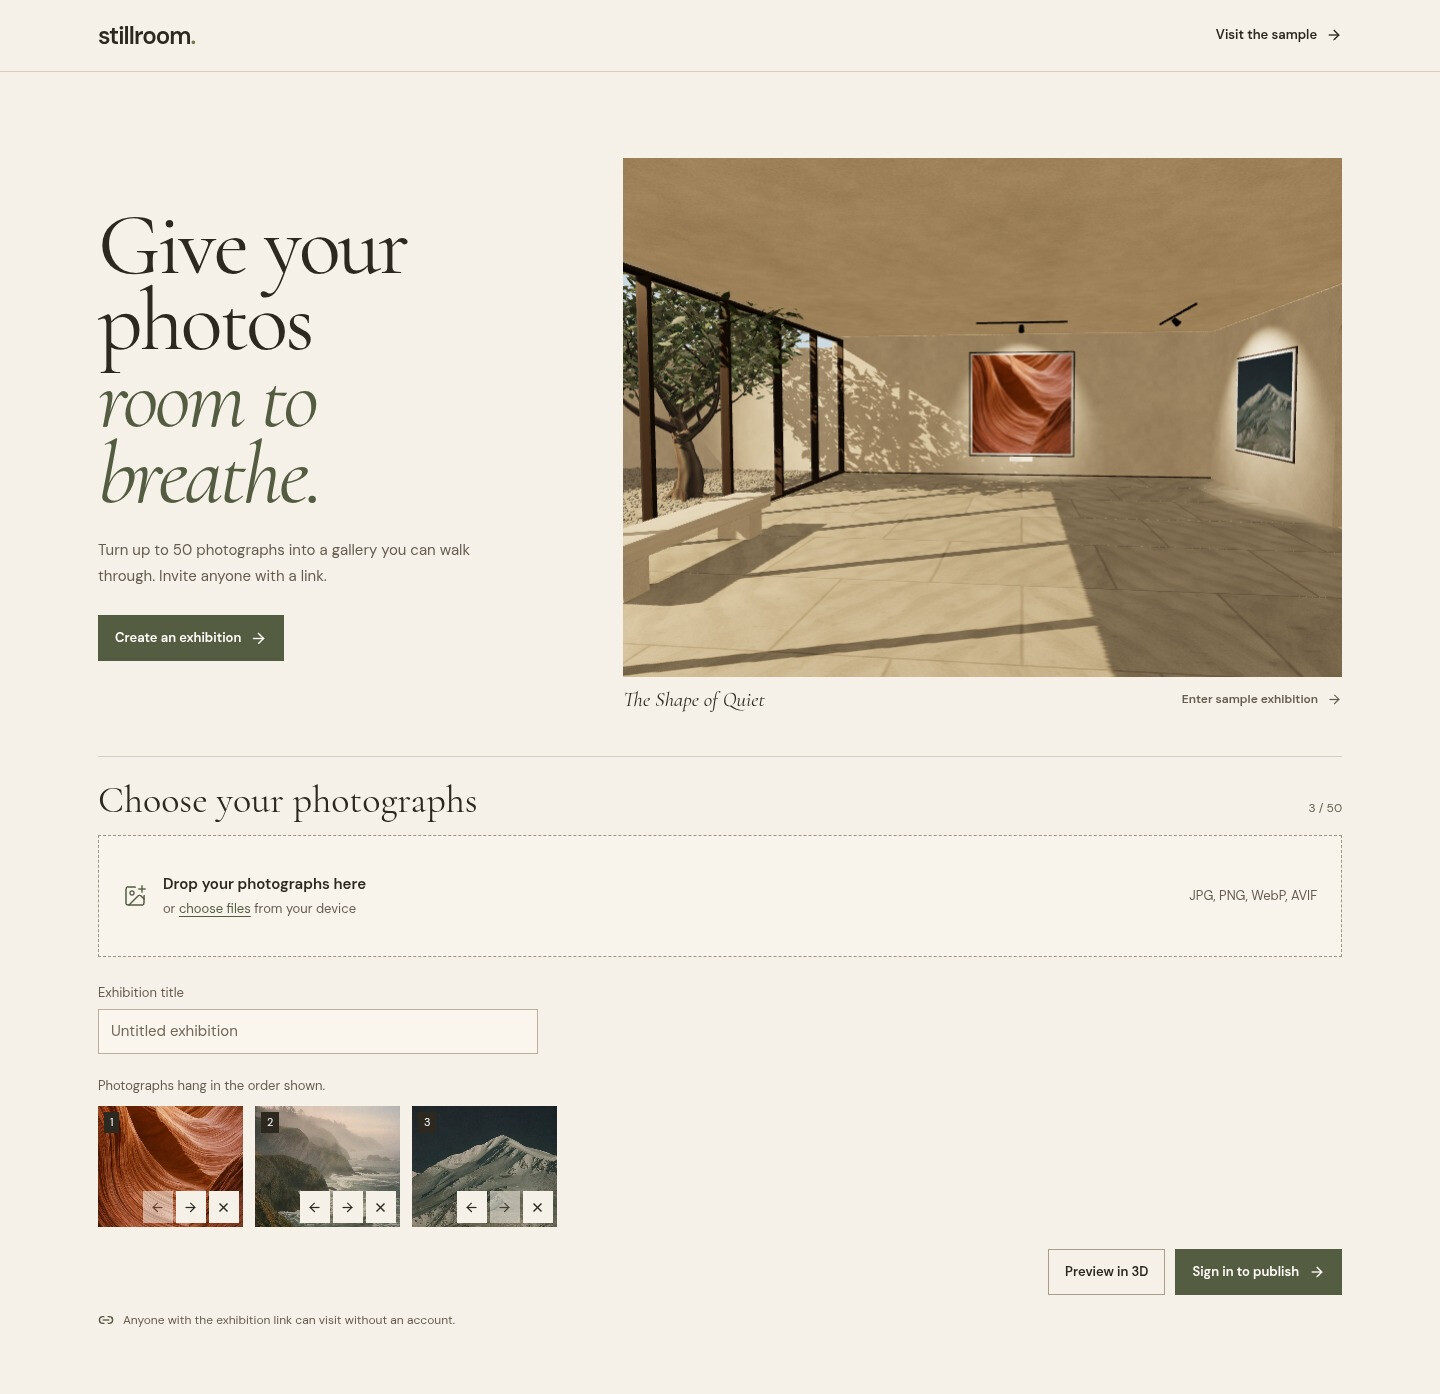
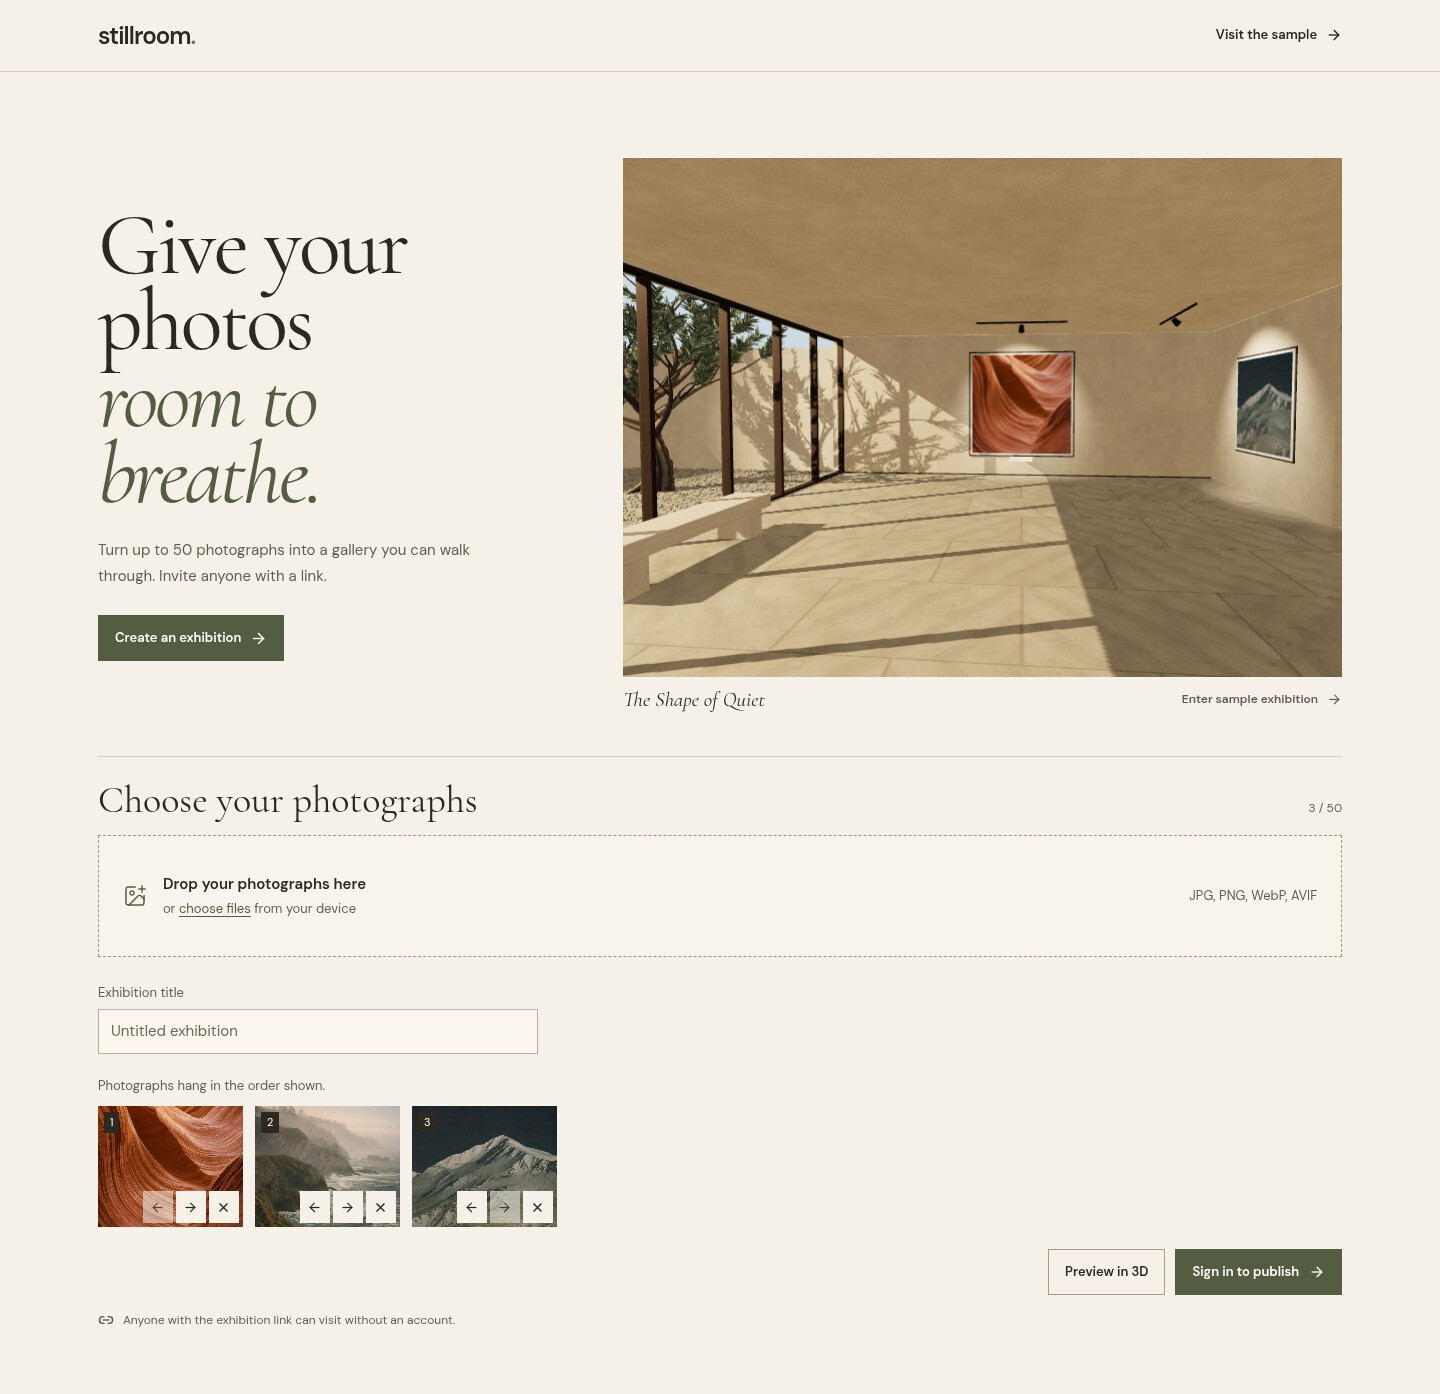
Refine olive foliage and keep the tree clear of the gallery

Changed region(s): [[0.4062, 0.1851, 0.7188, 0.3702]]

diff --git a/app/lib/olive-tree.ts b/app/lib/olive-tree.ts
@@ -1,6 +1,37 @@
 import * as THREE from "three";
 import { mergeGeometries } from "three/addons/utils/BufferGeometryUtils.js";
 
+function makeBarkTexture() {
+  const size = 128;
+  const pixels = new Uint8Array(size * size * 4);
+  const turn = Math.PI * 2;
+  for (let y = 0; y < size; y++) {
+    const v = y / size * turn;
+    const twist = 0.15 * Math.sin(2 * v) + 0.075 * Math.sin(5 * v);
+    for (let x = 0; x < size; x++) {
+      const u = x / size * turn + twist;
+      const crevice = Math.pow(0.5 + 0.5 * Math.cos(13 * u + 0.72 * Math.sin(3 * v + 5 * u)), 8);
+      const grain = Math.sin(31 * u + Math.sin(v * 4 - u * 9));
+      const scales = Math.sin(v * 7 + u * 17) * Math.sin(v * 13 - u * 8);
+      const fiber = Math.imul(x + 17, 1637133) ^ Math.imul(y + 61, 1013904223);
+      const speckle = ((fiber >>> 8) & 255) / 255 - 0.5;
+      const value = Math.min(255, Math.round(225 - 84 * crevice + 14 * grain + 13 * scales + 18 * speckle));
+      const pixel = (y * size + x) * 4;
+      pixels[pixel] = value;
+      pixels[pixel + 1] = value;
+      pixels[pixel + 2] = value;
+      pixels[pixel + 3] = 255;
+    }
+  }
+  const texture = new THREE.DataTexture(pixels, size, size);
+  texture.wrapS = texture.wrapT = THREE.RepeatWrapping;
+  texture.generateMipmaps = true;
+  texture.magFilter = THREE.LinearFilter;
+  texture.minFilter = THREE.LinearMipmapLinearFilter;
+  texture.needsUpdate = true;
+  return texture;
+}
+
 /** A gnarled olive with tapered bark and folded, lance-shaped leaves. */
 export function createOliveTree(seed = 1) {
   let state = seed >>> 0;
@@ -11,7 +42,7 @@ export function createOliveTree(seed = 1) {
   const tree = new THREE.Group();
   const wood: THREE.BufferGeometry[] = [];
   const sprays: { base: THREE.Vector3; tip: THREE.Vector3 }[] = [];
-  const barkShades = ["#443128", "#766451", "#8a7a64", "#665243", "#544c3e"].map((color) => new THREE.Color(color));
+  const barkShades = ["#39291f", "#755c45", "#9a8062", "#614733", "#514536", "#ad9675"].map((color) => new THREE.Color(color));
   const up = new THREE.Vector3(0, 1, 0);
   const perpendicular = new THREE.Vector3();
   const tangent = new THREE.Vector3();
@@ -21,8 +52,12 @@ export function createOliveTree(seed = 1) {
     const path = new THREE.CatmullRomCurve3(points);
     const positions: number[] = [];
     const colors: number[] = [];
+    const uvs: number[] = [];
     const indices: number[] = [];
-    const flutes = Array.from({ length: sides }, () => 0.78 + random() * 0.36);
+    const ring = sides + 1;
+    const length = path.getLength();
+    const repeats = Math.max(1, Math.round(radius * 10));
+    const flutes = Array.from({ length: sides }, () => 0.70 + random() * 0.54);
     const shades = flutes.map(() => barkShades[Math.floor(random() * barkShades.length)]);
     for (let step = 0; step <= steps; step++) {
       const t = step / steps;
@@ -37,19 +72,37 @@ export function createOliveTree(seed = 1) {
           .applyQuaternion(orientation).add(center);
         positions.push(perpendicular.x, perpendicular.y, perpendicular.z);
         const shade = shades[side];
-        const value = 0.76 + 0.31 * random();
+        const value = 0.70 + 0.43 * random();
         colors.push(shade.r * value, shade.g * value, shade.b * value);
+        uvs.push(repeats * side / sides, t * length * 1.7);
         if (step === steps) continue;
-        const a = step * sides + side;
-        const b = step * sides + (side + 1) % sides;
-        indices.push(a, a + sides, b, b, a + sides, b + sides);
+        const a = step * ring + side;
+        indices.push(a, a + ring, a + 1, a + 1, a + ring, a + ring + 1);
       }
+      // Duplicate the seam vertex so its texture coordinates can wrap.
+      const start = step * ring * 3;
+      positions.push(positions[start], positions[start + 1], positions[start + 2]);
+      colors.push(colors[start], colors[start + 1], colors[start + 2]);
+      uvs.push(repeats, t * length * 1.7);
     }
     const geometry = new THREE.BufferGeometry();
     geometry.setAttribute("position", new THREE.Float32BufferAttribute(positions, 3));
     geometry.setAttribute("color", new THREE.Float32BufferAttribute(colors, 3));
+    geometry.setAttribute("uv", new THREE.Float32BufferAttribute(uvs, 2));
     geometry.setIndex(indices);
     geometry.computeVertexNormals();
+    const normals = geometry.getAttribute("normal");
+    for (let step = 0; step <= steps; step++) {
+      const left = step * ring;
+      const right = left + sides;
+      tangent.set(
+        normals.getX(left) + normals.getX(right),
+        normals.getY(left) + normals.getY(right),
+        normals.getZ(left) + normals.getZ(right),
+      ).normalize();
+      normals.setXYZ(left, tangent.x, tangent.y, tangent.z);
+      normals.setXYZ(right, tangent.x, tangent.y, tangent.z);
+    }
     wood.push(geometry);
     return path;
   }
@@ -58,7 +111,7 @@ export function createOliveTree(seed = 1) {
   const trunk = bough([
     vector(0, -0.08, 0), vector(0.14, 0.42, 0.06), vector(-0.03, 1.04, 0.03),
     vector(-0.21, 1.60, -0.12), vector(0.08, 2, -0.30),
-  ], 0.25, 0.062, 21, 16);
+  ], 0.25, 0.062, 35, 26);
   for (let i = 0; i < 5; i++) {
     const angle = i * 2.4;
     const end = vector(Math.cos(angle) * (0.32 + random() * 0.28), -0.08, Math.sin(angle) * (0.32 + random() * 0.28));
@@ -90,35 +143,59 @@ export function createOliveTree(seed = 1) {
   }
   const bark = mergeGeometries(wood);
   for (const branch of wood) branch.dispose();
-  if (bark) tree.add(new THREE.Mesh(bark, new THREE.MeshStandardMaterial({ vertexColors: true, roughness: 0.94 })));
+  if (bark) {
+    const texture = makeBarkTexture();
+    tree.add(new THREE.Mesh(bark, new THREE.MeshStandardMaterial({
+      map: texture, bumpMap: texture, bumpScale: 0.025, vertexColors: true, roughness: 0.95,
+    })));
+  }
 
   const leaf = new THREE.BufferGeometry();
+  // A slim, shallowly cupped blade with a raised midrib. Instance scale is its length.
   leaf.setAttribute("position", new THREE.Float32BufferAttribute([
-    0, 0, 0, -0.20, 0, 0.28, -0.16, 0, 0.65, 0, 0.025, 1,
-    0.16, 0, 0.65, 0.20, 0, 0.28, 0, 0.080, 0.49,
+    0, 0, 0, -0.091, 0, 0.28, -0.063, 0, 0.67, 0, 0.011, 1,
+    0.063, 0, 0.67, 0.091, 0, 0.28, 0, 0.039, 0.51,
+  ], 3));
+  leaf.setAttribute("color", new THREE.Float32BufferAttribute([
+    0.72, 0.76, 0.70, 0.89, 0.92, 0.87, 0.91, 0.95, 0.90, 0.79, 0.85, 0.81,
+    0.82, 0.88, 0.82, 0.85, 0.90, 0.85, 1.02, 1.05, 0.99,
   ], 3));
   leaf.setIndex([0, 1, 6, 1, 2, 6, 2, 3, 6, 3, 4, 6, 4, 5, 6, 5, 0, 6]);
   leaf.computeVertexNormals();
-  const colors = ["#677349", "#849165", "#a4ad83", "#727b53", "#506747", "#b2b096", "#929275"].map((color) => new THREE.Color(color));
-  const leavesPerSpray = 46;
+  const colors = ["#566744", "#74855e", "#9aa587", "#65764c", "#435d43", "#b5b59a", "#87917b", "#a9a98a"].map((color) => new THREE.Color(color));
+  const leavesPerSpray = 56;
   const foliage = new THREE.InstancedMesh(leaf, new THREE.MeshStandardMaterial({
-    roughness: 0.81, side: THREE.DoubleSide,
+    roughness: 0.87, side: THREE.DoubleSide, vertexColors: true,
   }), sprays.length * leavesPerSpray);
   const dummy = new THREE.Object3D();
+  const bladeAxis = new THREE.Vector3(0, 0, 1);
+  const shootDirection = new THREE.Vector3();
+  const alignment = new THREE.Quaternion();
+  const roll = new THREE.Quaternion();
+  const outwardTilt = new THREE.Quaternion();
+  const localY = new THREE.Vector3(0, 1, 0);
   let leafIndex = 0;
   for (const { base, tip } of sprays) {
+    shootDirection.subVectors(tip, base).normalize();
+    alignment.setFromUnitVectors(bladeAxis, shootDirection);
     for (let i = 0; i < leavesPerSpray; i++) {
-      const t = 0.1 + random() * 0.94;
+      const node = Math.floor(i / 2);
+      const t = 0.05 + (node + random() * 0.68) / (leavesPerSpray / 2) * 0.93;
       dummy.position.copy(base).lerp(tip, t);
-      const spread = 0.13 + Math.sin(t * Math.PI) * 0.24;
+      const side = i % 2 ? 1 : -1;
       const angle = random() * Math.PI * 2;
-      const offset = Math.sqrt(random()) * spread;
-      dummy.position.x += Math.sin(angle) * offset;
-      dummy.position.z += Math.cos(angle) * offset;
-      dummy.position.y += (random() - 0.5) * spread * 0.92;
-      dummy.rotation.set((random() - 0.49) * 1.7, angle, (random() - 0.5) * 1.72, "YXZ");
-      const size = 0.095 + random() * 0.15;
-      dummy.scale.set(size * (0.65 + 0.69 * random()), size, size);
+      const spread = 0.008 + random() * 0.029;
+      dummy.position.x += Math.sin(angle) * spread;
+      dummy.position.z += Math.cos(angle) * spread;
+      dummy.position.y += (random() - 0.45) * spread * 0.9;
+      // Leaves grow in alternating ranks along each fine shoot, turning outward from it.
+      outwardTilt.setFromAxisAngle(localY, side * (0.48 + random() * 0.52));
+      roll.setFromAxisAngle(bladeAxis, (random() - 0.5) * 0.48);
+      dummy.quaternion.copy(alignment).multiply(outwardTilt).multiply(roll);
+      dummy.rotateX((random() - 0.5) * 0.46);
+      dummy.rotateY((random() - 0.5) * 0.38);
+      const length = 0.12 + random() * 0.10;
+      dummy.scale.set(length * (0.82 + random() * 0.34), length, length);
       dummy.updateMatrix();
       foliage.setMatrixAt(leafIndex, dummy.matrix);
       foliage.setColorAt(leafIndex, colors[Math.floor(random() * colors.length)]);
@@ -126,6 +203,7 @@ export function createOliveTree(seed = 1) {
     }
   }
   foliage.instanceMatrix.needsUpdate = true;
+  foliage.computeBoundingBox();
   foliage.computeBoundingSphere();
   tree.add(foliage);
   return tree;

diff --git a/app/lib/gallery-scene.ts b/app/lib/gallery-scene.ts
@@ -209,8 +209,19 @@ export function createScene(artworks: WorldArtwork[], renderer: THREE.WebGLRende
       pebbles.receiveShadow = true;
       group.add(pebbles);
       const tree = createOliveTree(417);
-      tree.position.set(room.bounds.minX - 1.83, 0, z - depth * 0.24);
       tree.scale.setScalar(1.085);
+      // Measure the transformed trunk and every leaf instance, then place the whole tree
+      // outside the glazing with a consistent physical gap.
+      tree.updateMatrixWorld(true);
+      const treeBounds = new THREE.Box3().setFromObject(tree);
+      const glazingSetback = 0.68;
+      const masonryInset = 0.26;
+      const treeZ = THREE.MathUtils.clamp(
+        z - depth * 0.28,
+        z - courtDepth / 2 + masonryInset - treeBounds.min.z,
+        z + courtDepth / 2 - masonryInset - treeBounds.max.z,
+      );
+      tree.position.set(room.bounds.minX - glazingSetback - treeBounds.max.x, 0, treeZ);
       group.add(tree);
 
       const benchX = room.bounds.minX + 0.78;
